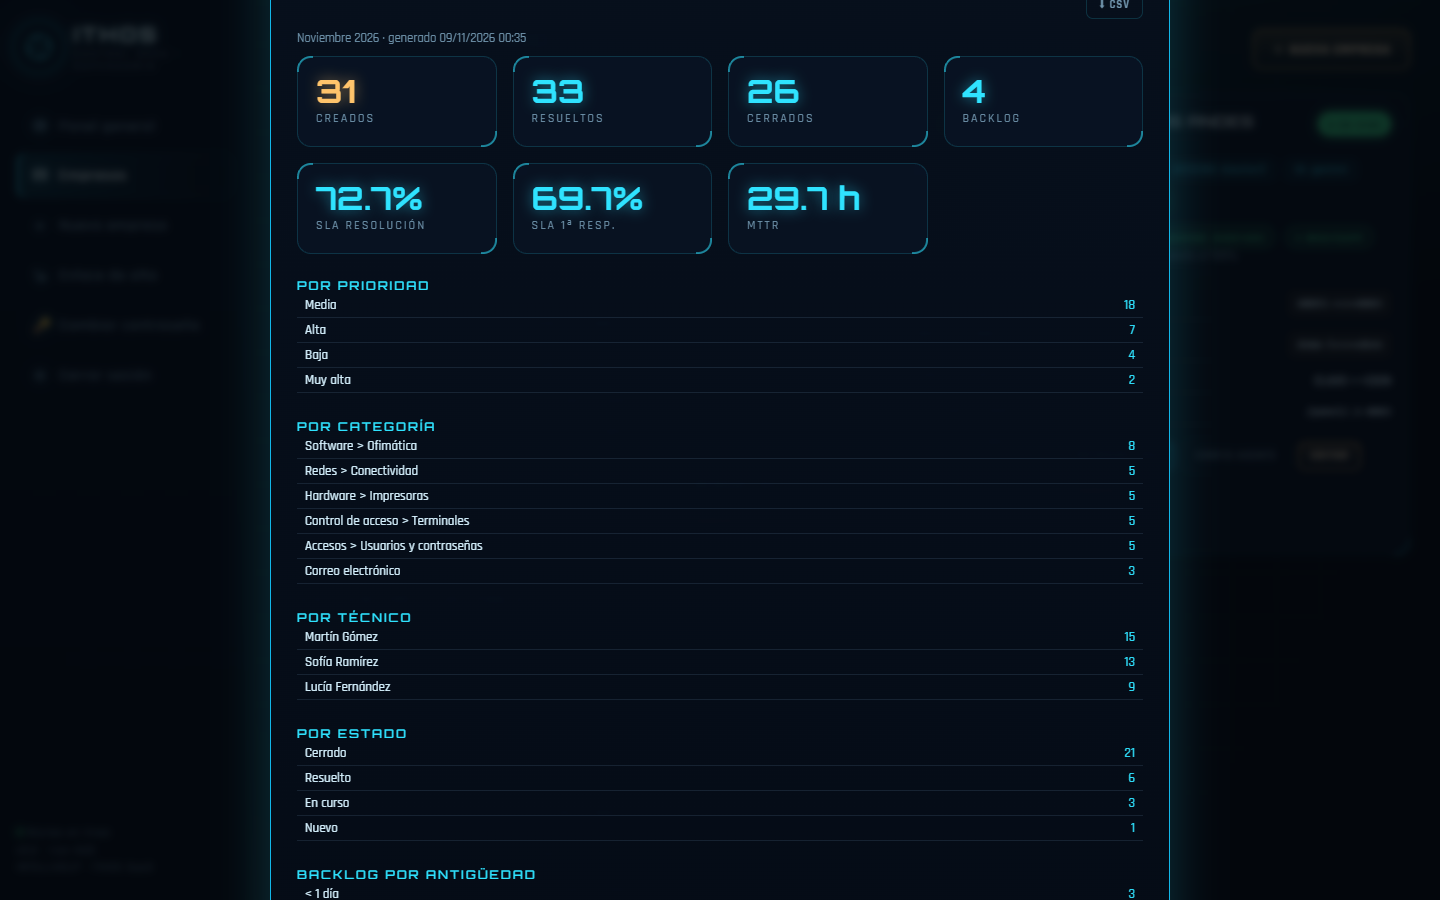
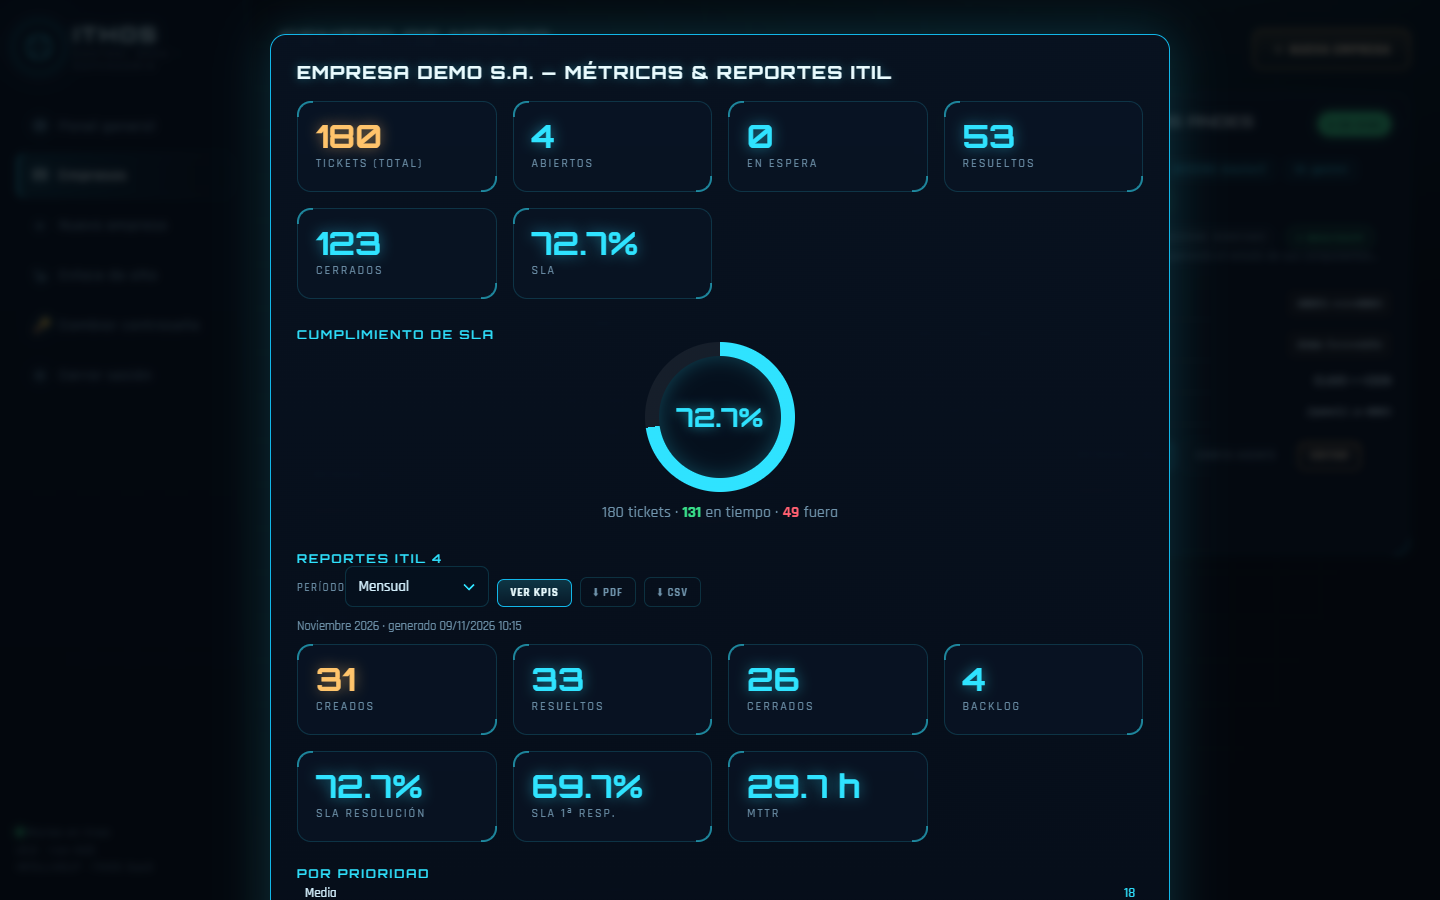
fix(panel): textos de ayuda en párrafo y barra de reportes ITIL en una fila; capturas 03 y 09 actualizadas
- estilo_ithos.py: .f.hint vuelve a mostrarse como bloque; antes cada negrita de la ayuda quedaba en un renglón.
- panel_ui.py: la barra de reportes ITIL va en fila (Período, Ver KPIs, PDF y CSV).
- Capturas de Métricas ITIL (desde el encabezado) y Alta de empresa, con datos ficticios.

diff --git a/ITHOS/central/panel_ui.py b/ITHOS/central/panel_ui.py
@@ -424,7 +424,7 @@ function canalesResumen(c){let n=(c&&c.notificaciones)||[];let act=n.filter(x=>x
 // UI: selector de período + botones. Cualquiera puede sacar el reporte diario/semanal/mensual
 // a mano y descargar PDF/CSV, aunque NO tenga configurado el envío automático.
 function itilBloque(){return `<div class=sec style="border:0;margin-top:16px"><span>Reportes ITIL 4</span></div>
-   <div class=f style="gap:8px;align-items:end;flex-wrap:wrap">
+   <div class=f style="flex-direction:row;gap:8px;align-items:end;flex-wrap:wrap">
      <div><label>Período</label><select id=r_per onchange="itilPer()"><option value=diario>Diario</option><option value=semanal>Semanal</option><option value=mensual selected>Mensual</option><option value=total>Histórico (todo)</option><option value=personalizado>Personalizado…</option></select></div>
      <div id=r_rango class=row style="display:none;gap:8px;align-items:end">
        <div><label>Desde</label><input type=date id=r_desde></div>

diff --git a/ITHOS/comun/estilo_ithos.py b/ITHOS/comun/estilo_ithos.py
@@ -118,6 +118,7 @@ h1,h2,h3,.ttl{font-family:'Orbitron','Rajdhani',sans-serif;letter-spacing:1.5px;
 .form{display:grid;grid-template-columns:1fr 1fr;gap:14px}
 .f{display:flex;flex-direction:column;gap:5px}
 .f.full{grid-column:1/-1}
+.f.hint{display:block}
 .f label{font-size:11px;letter-spacing:1.5px;color:var(--muted);text-transform:uppercase}
 .f input,.f select{background:#05101d;border:1px solid var(--line);border-radius:8px;padding:10px 12px;color:var(--txt);font-family:'Rajdhani',sans-serif;font-size:15px;outline:none;transition:.12s}
 .f input:focus,.f select:focus{border-color:var(--cyan);box-shadow:0 0 12px rgba(47,227,255,.3)}

diff --git a/README.md b/README.md
@@ -85,9 +85,9 @@ control de acceso, micrófono y WhatsApp). Las credenciales se ven siempre enmas
 
 ### Métricas y reportes ITIL
 
-KPIs del período calculados sobre los tickets del cliente: volumen, cumplimiento de SLA de
-resolución y de primera respuesta, MTTR y desglose por prioridad, categoría, técnico, estado y
-antigüedad del backlog. Se descargan en PDF o CSV.
+Estado de los tickets del cliente y cumplimiento de SLA, y debajo los KPIs ITIL del período:
+volumen, SLA de resolución y de primera respuesta, MTTR y desglose por prioridad, categoría,
+técnico, estado y antigüedad del backlog. Se descargan en PDF o CSV.
 
 <p align="center"><img src="docs/capturas/03-metricas-itil.png" alt="Métricas y reportes ITIL" width="100%"></p>
 
